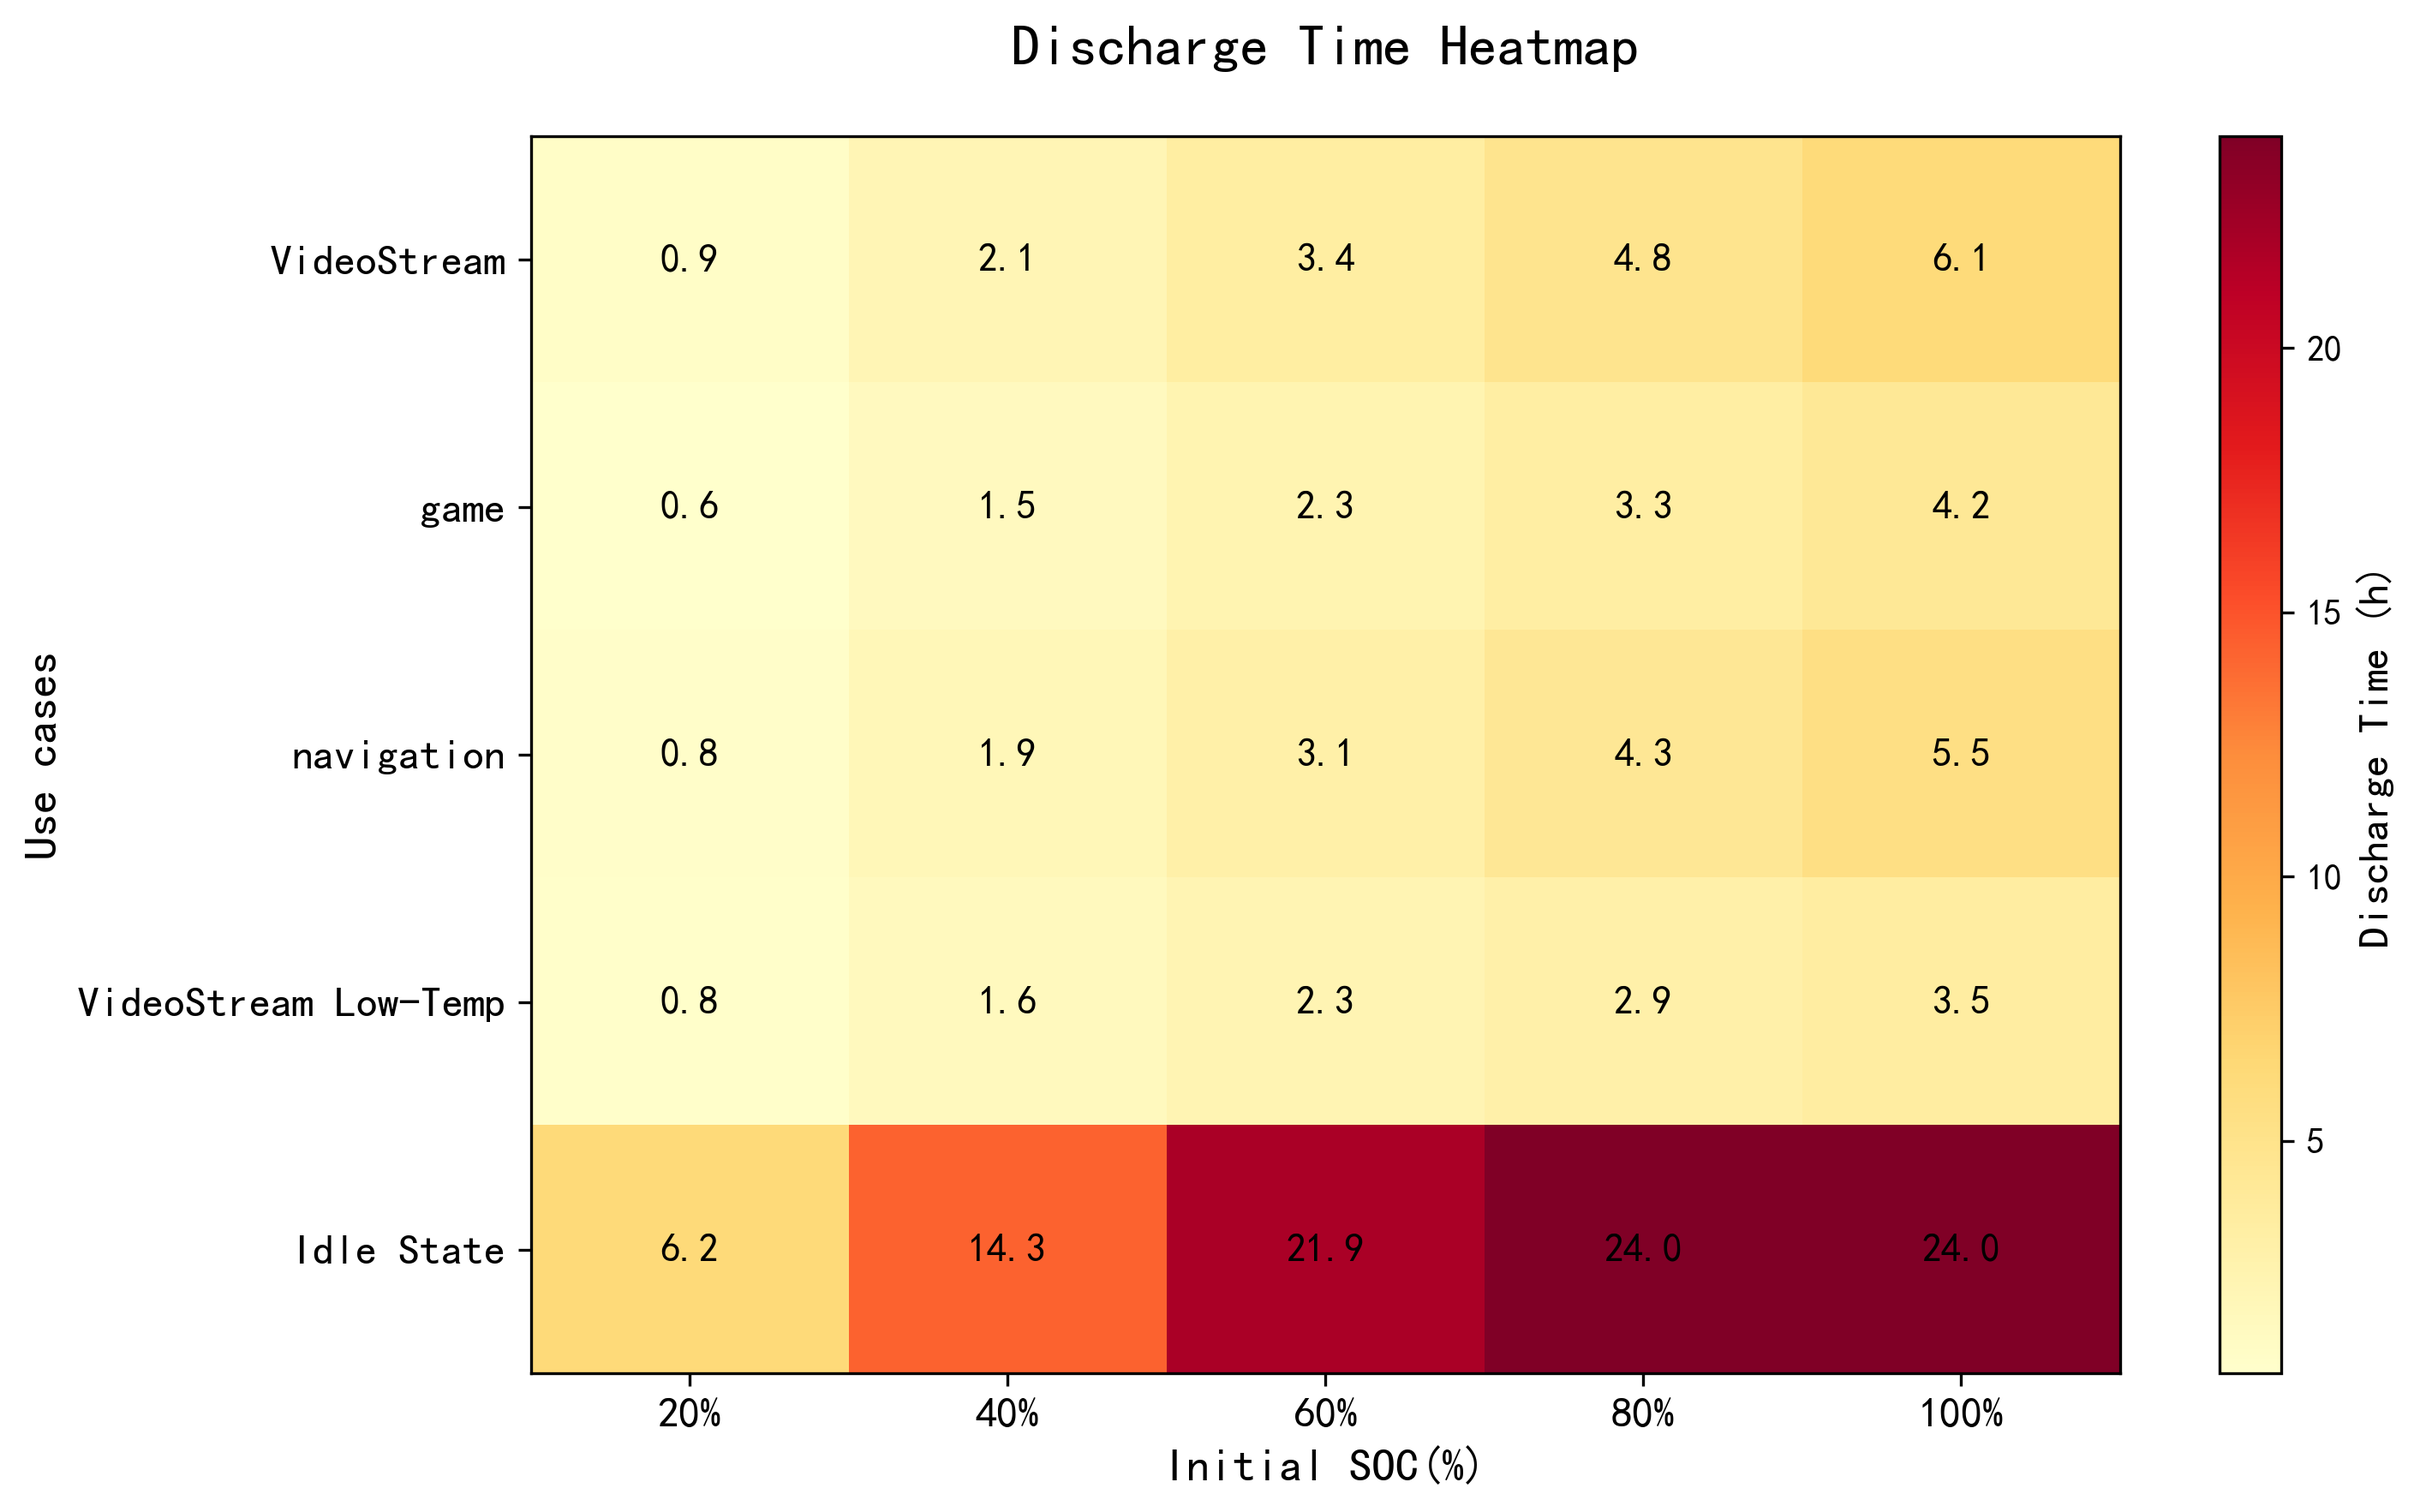
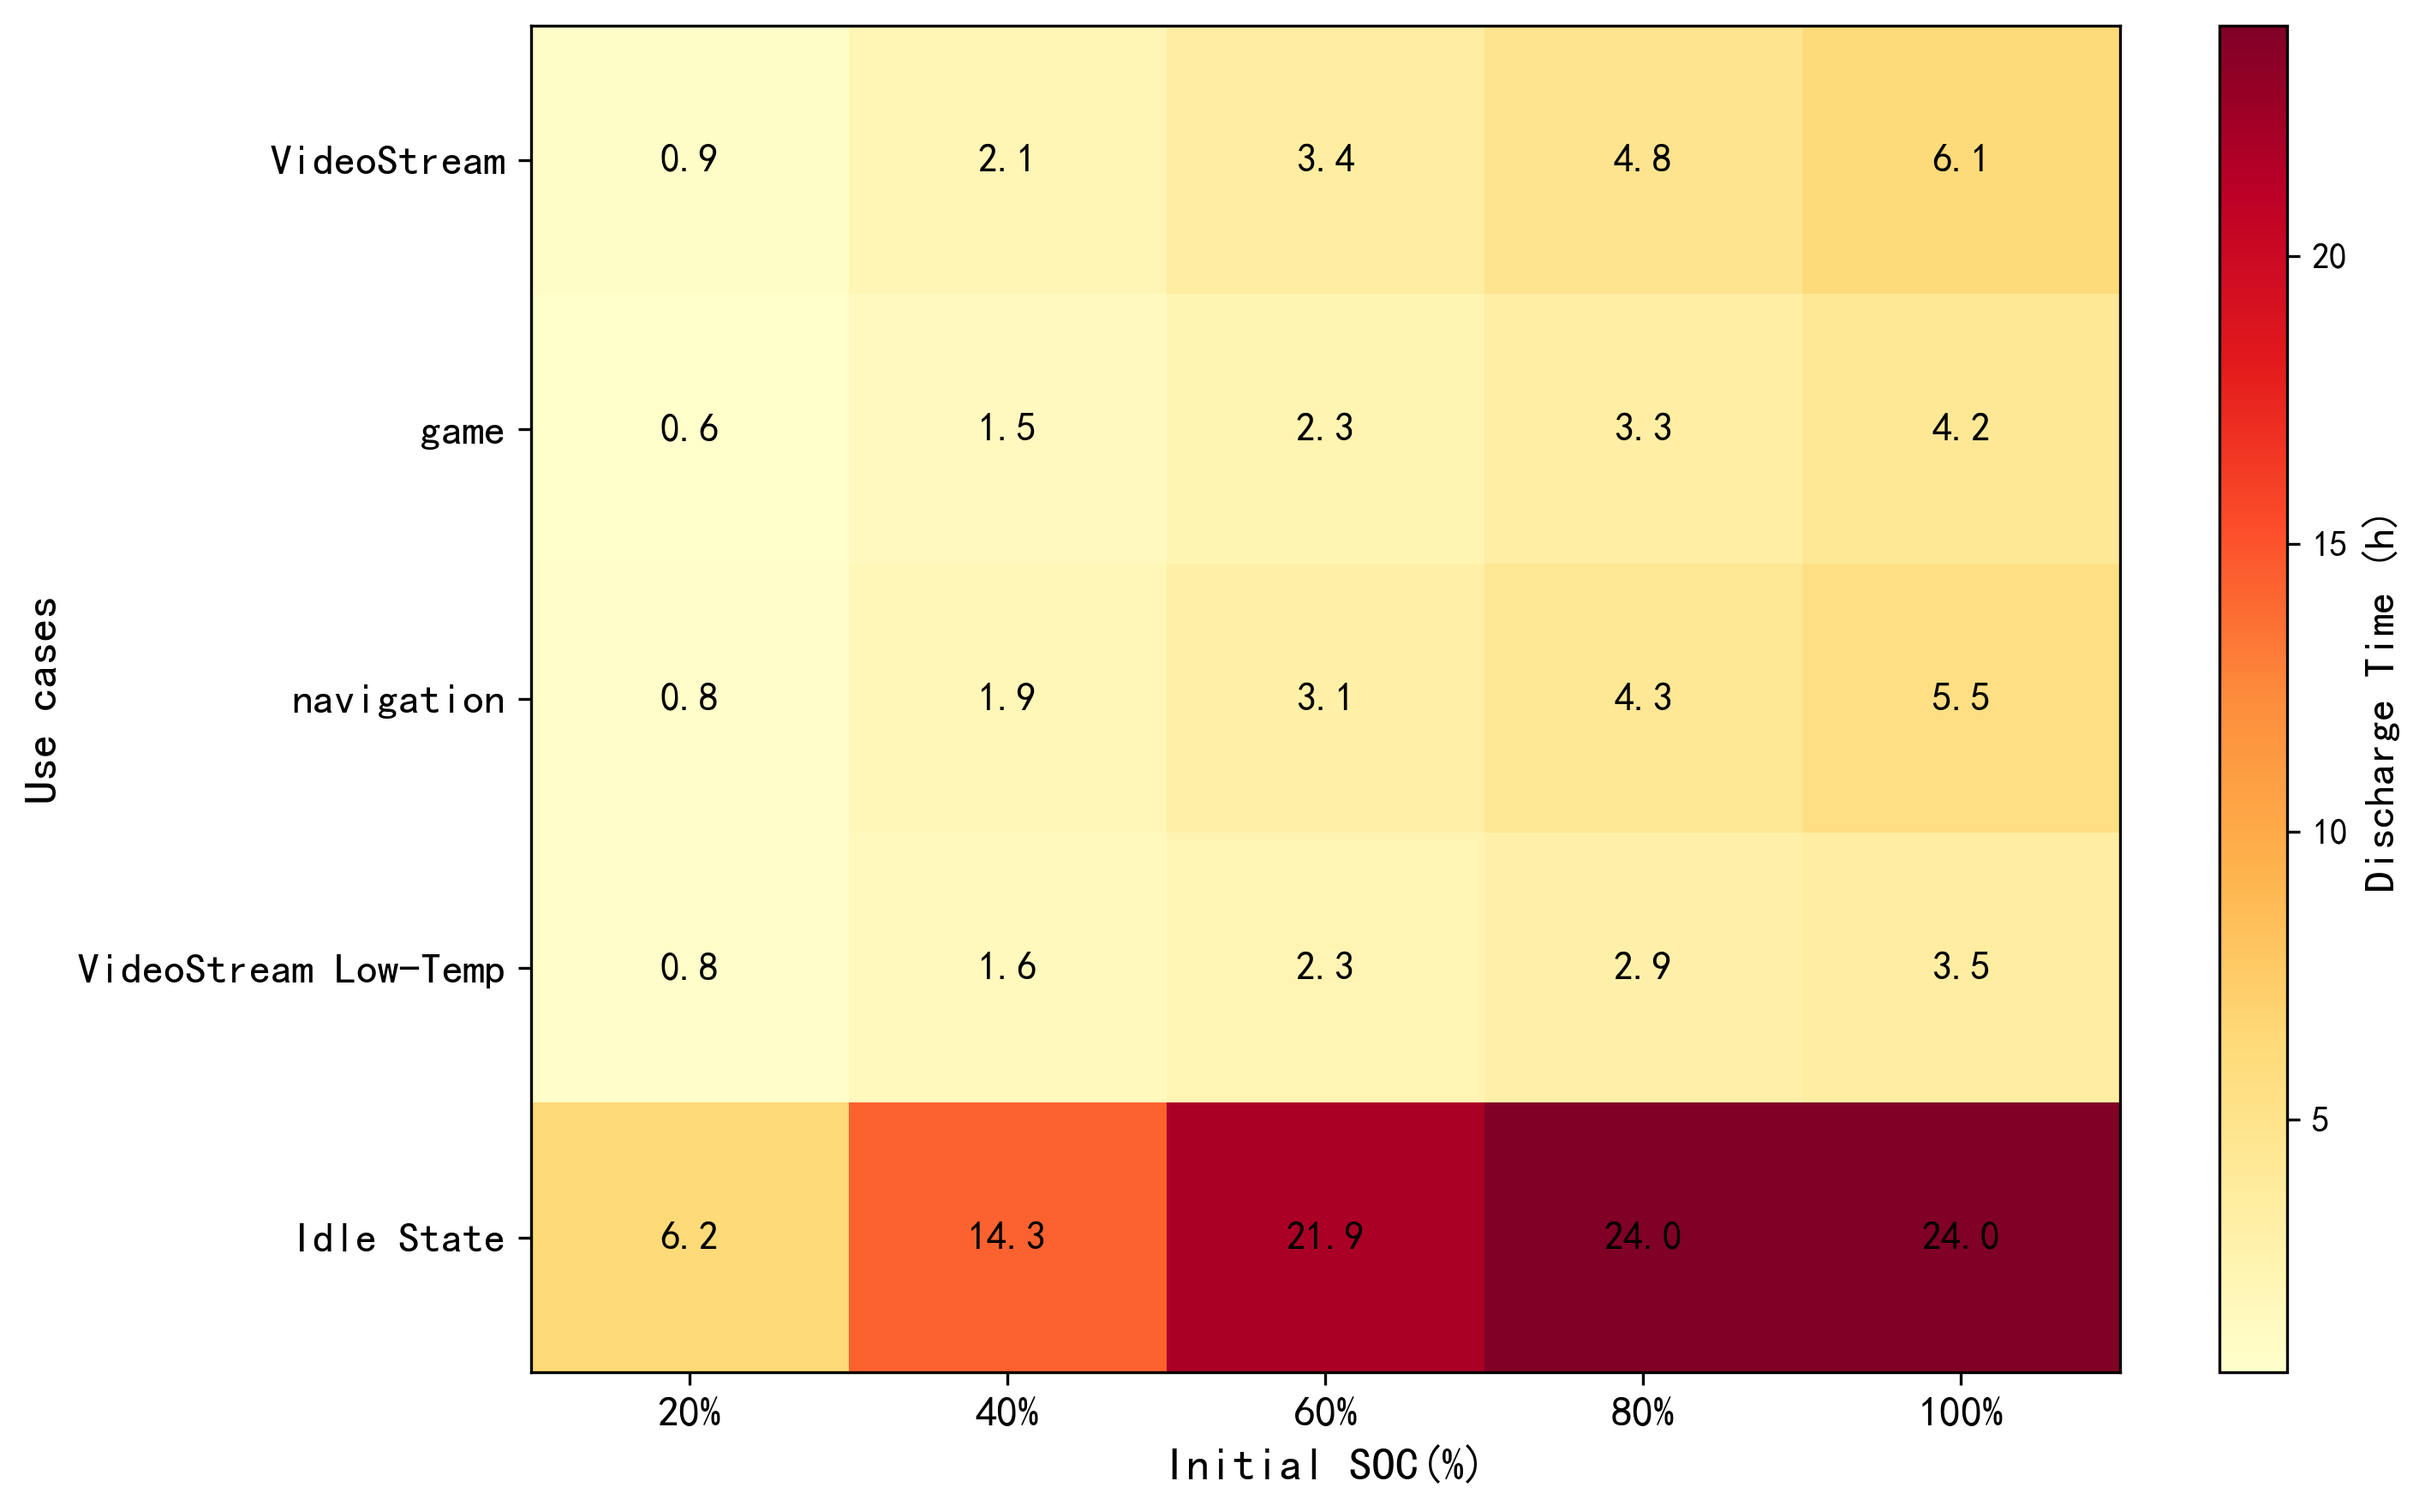
modify

diff --git a/问题1/caculate.py b/问题1/caculate.py
@@ -153,7 +153,7 @@ def plot_heatmap(soc_values, results_matrix):
     ax.set_yticklabels(scenarios, fontsize=12)
     ax.set_xlabel('Initial SOC(%)', fontsize=13, fontweight='bold')
     ax.set_ylabel('Use cases', fontsize=13, fontweight='bold')
-    ax.set_title('Discharge Time Heatmap', fontsize=16, fontweight='bold', pad=20)
+    #ax.set_title('Discharge Time Heatmap', fontsize=16, fontweight='bold', pad=20)
     
     # 添加数值标注
     for i in range(len(scenarios)):
